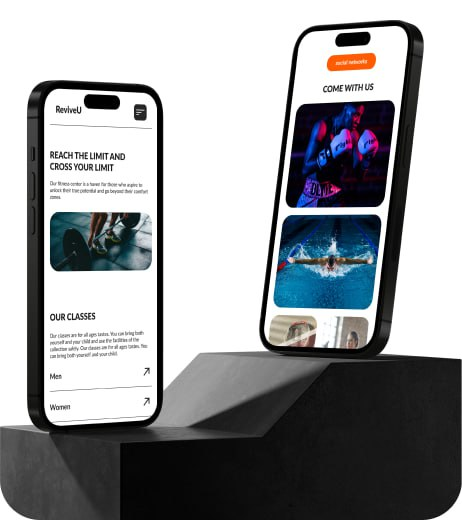
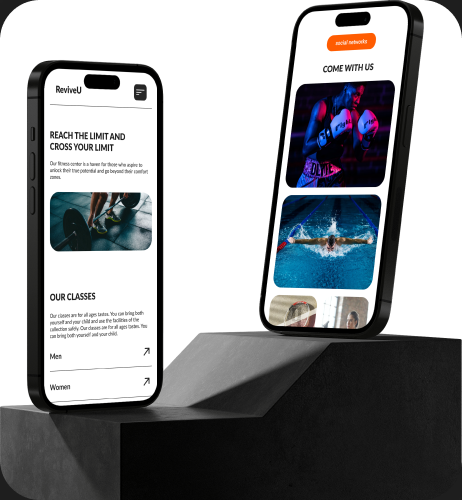
Change some img

diff --git a/style.css b/style.css
@@ -94,6 +94,7 @@ body {
 .header a{
   display: inline-block;
   text-decoration: none;
+  transition: all 0.3s;
 }
 .header a:hover{
   text-decoration: underline;
@@ -613,7 +614,7 @@ body {
     height: 100%;
     object-fit: cover;
     transition: all 0.3s;
-    border-radius: 40px;
+    border-radius: 9%;
   }
   .our-works__item-img:hover{
     transform: scale(1.05);
